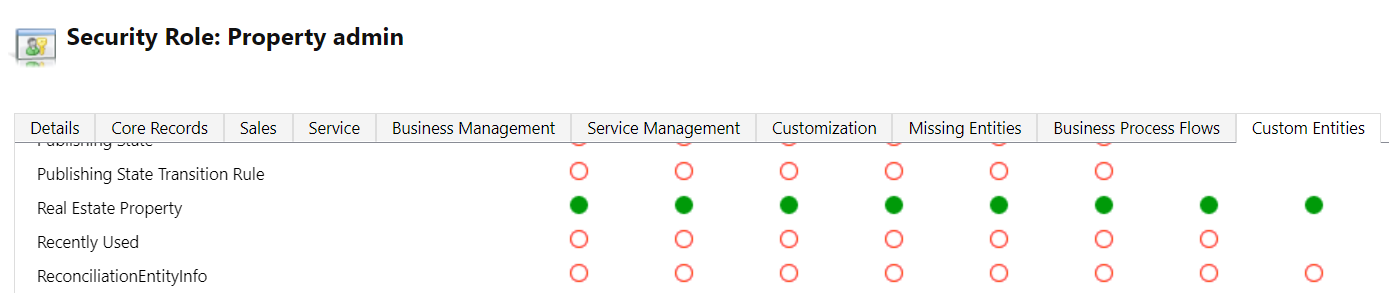
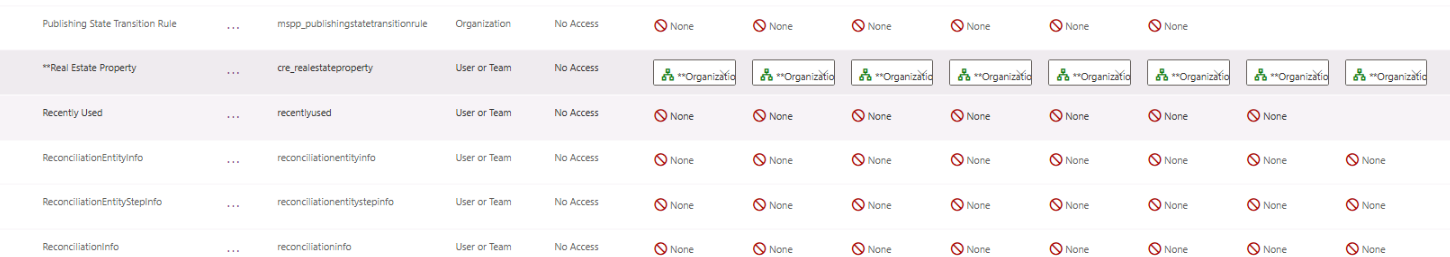
Change for security instructions in lab4

diff --git a/Instructions/Labs/LAB[PL-7003]_M03L01_Forms_views.md b/Instructions/Labs/LAB[PL-7003]_M03L01_Forms_views.md
@@ -247,13 +247,13 @@ In this exercise, you will create a new form and restrict access with a security
 
 1. Enter `Property admin` for **Role Name**.
 
-1. Select the **Custom Entities** tab.
+1. Scroll down to the **Custom Tables** section.
 
-1. Select **Real Estate Property** table 4 times to change the access level on all privileges to **Organization**.
+1. Select **Real Estate Property** table. Change the access level on all privileges to **Organization**.
 
     ![Real Estate Propery privileges in security role.](../media/security-role.png)
 
-1. Select **Showing** table 4 times to change the access level on all privileges to **Organization**.
+1. Select **Showing** table. Change the access level on all privileges to **Organization**.
 
 1. Select **Save and Close**.
 
